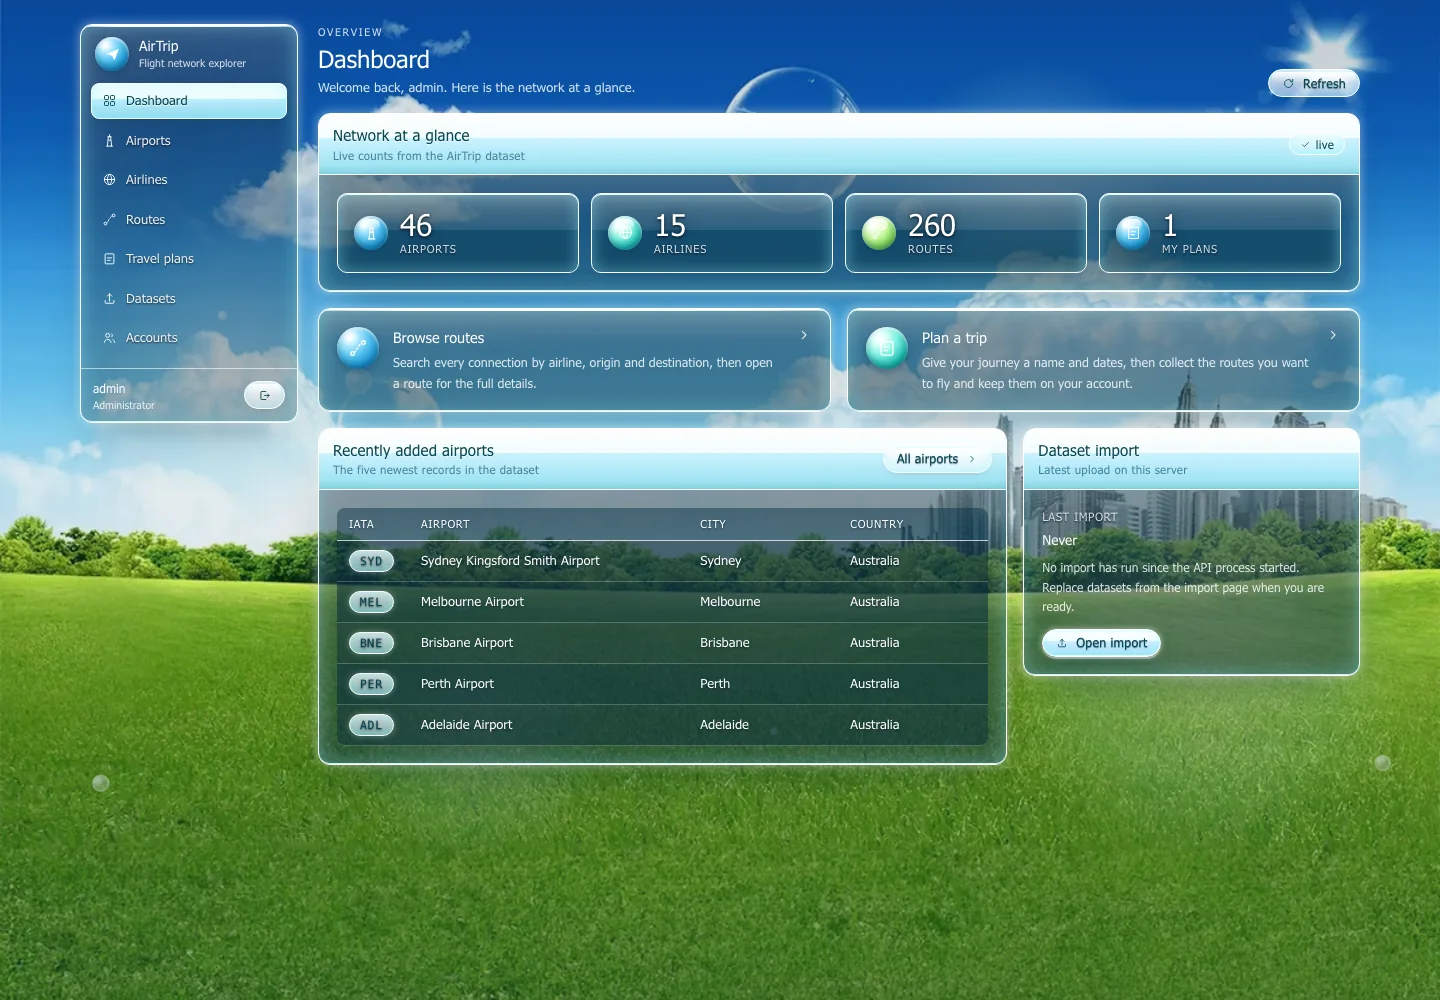
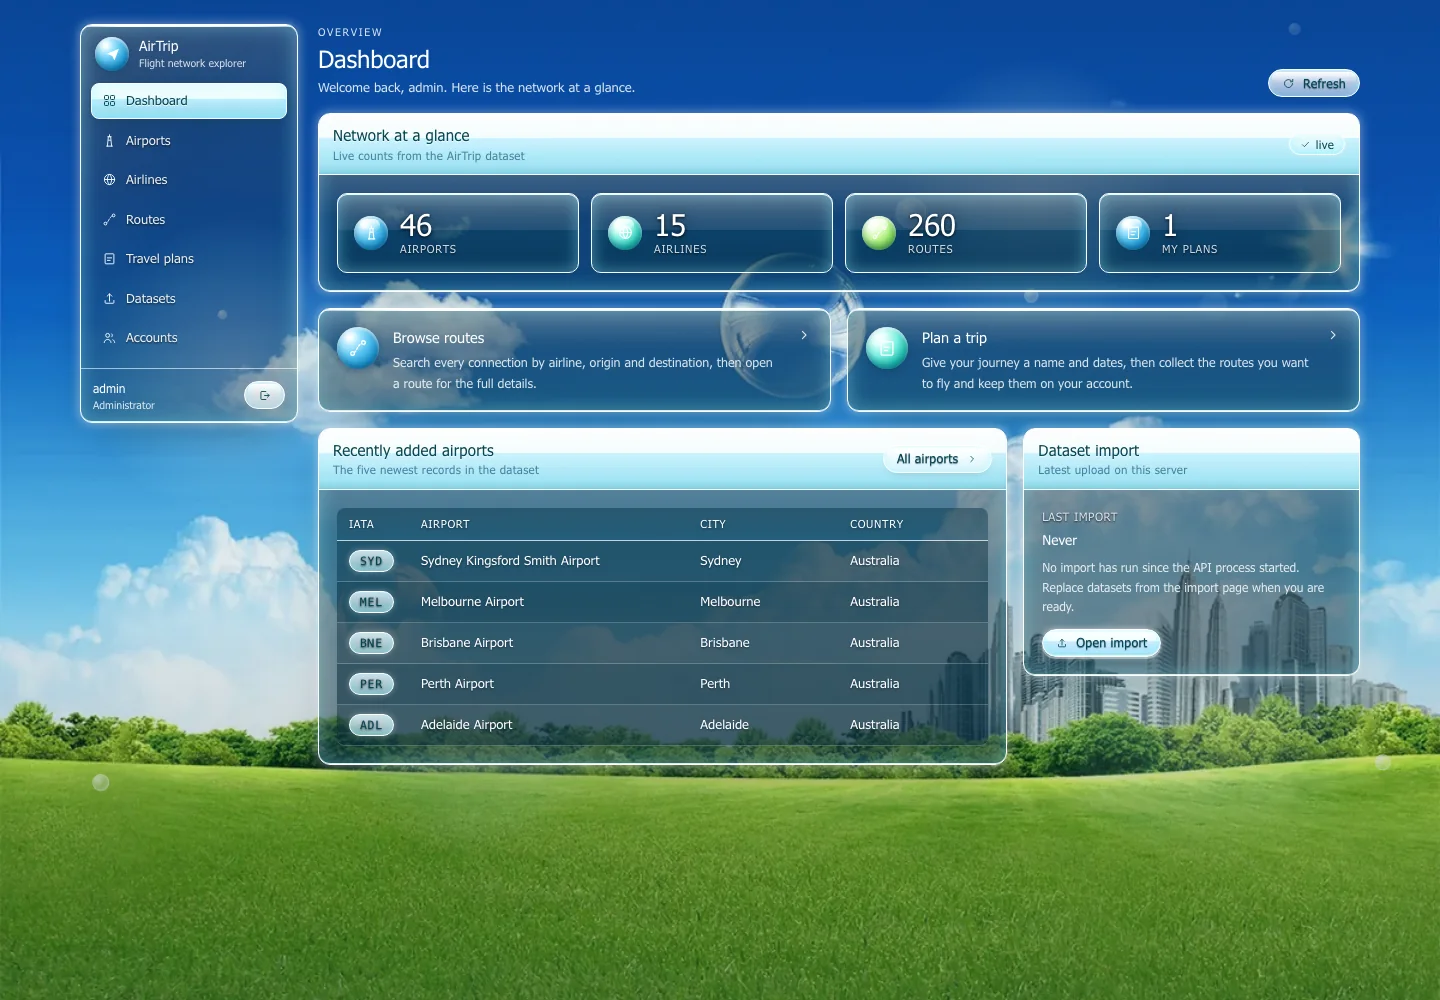
Shift the wallpaper down so the sunlight clears the panes
Back to the full-bleed photo; background-position 72% -> 58% moves the horizon
and the sun down, and the sun now peeks past the right edge of the counter tiles.

diff --git a/airtrip-web/src/styles/theme-aqua.css b/airtrip-web/src/styles/theme-aqua.css
@@ -92,7 +92,7 @@
 
 [data-theme='aqua'][data-wallpaper='on'] .aero-scene {
   background:
-    url('../assets/aero-wallpaper.webp') center 72% / cover no-repeat,
+    url('../assets/aero-wallpaper.webp') center 58% / cover no-repeat,
     linear-gradient(180deg, #1670c8 0%, #4fb6e8 55%, #7ed06a 100%);
 }
 
